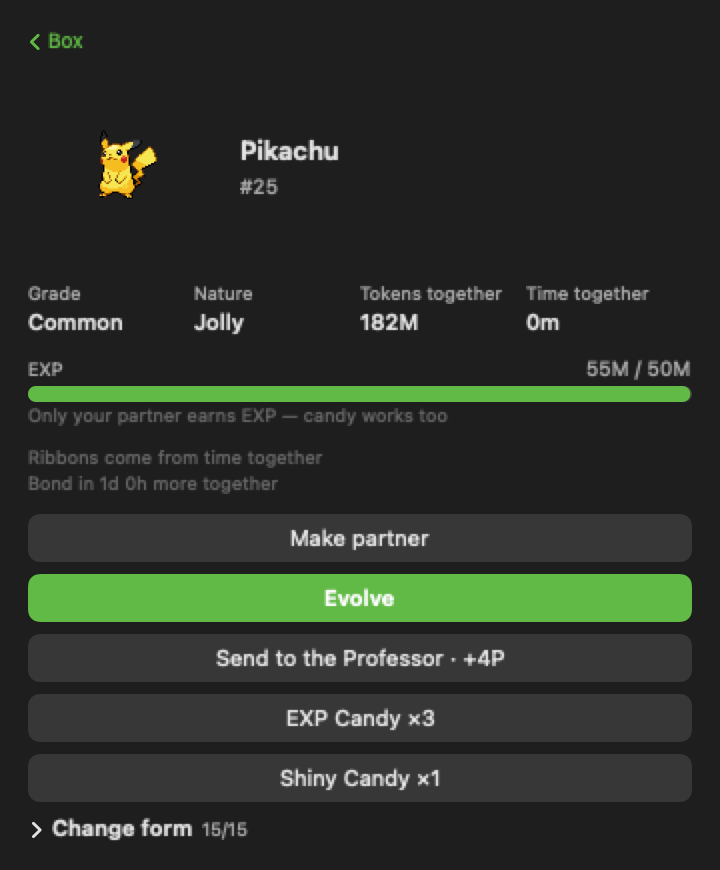
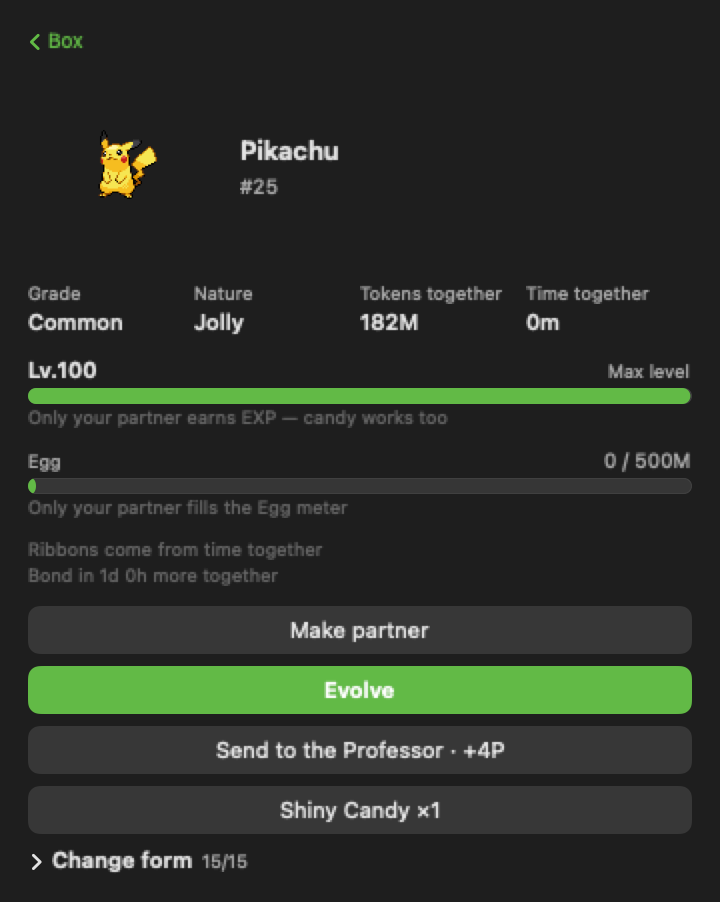
landing: level Pokemon the way the games do

diff --git a/index.html b/index.html
@@ -267,7 +267,7 @@
       <div class="step">
         <span class="n">05</span>
         <h3 data-i18n="s5.t">Evolve by hand</h3>
-        <p data-i18n="s5.d">Feed a hatchling experience by coding, or with EXP Candy, then tap it to evolve once it's ready. Branching lines let you pick the path. Experience alone isn't always enough: 56 branches want a stone, 25 want the item a trade would have held — and none of it is for sale. A partner wearing a Ribbon brings back the item it needs.</p>
+        <p data-i18n="s5.d">Pokémon level from 1 to 100 on the games' own six growth curves, and evolve at the games' own levels — a Charmander becomes a Charmeleon at 16. Code, or feed EXP Candy, then tap to evolve once it's ready. Branching lines let you pick the path. A level alone isn't always enough: 56 branches want a stone, 25 want the item a trade would have held — and none of it is for sale. A partner wearing a Ribbon brings back the item it needs.</p>
       </div>
       <div class="step">
         <span class="n">06</span>
@@ -311,7 +311,11 @@
       </figure>
       <figure>
         <div class="shot"><img src="assets/found-egg.png" alt="A green button reading 'Your partner brought a Charmander Egg!' directly above the hatching row it drops into"></div>
-        <figcaption data-i18n="cap.foundegg">A fully evolved Pokémon has nowhere left to put its experience, so it gathers into an Egg of that Pokémon's own line — a Charizard brings a Charmander Egg, filling in the stages you skipped. Press the announcement and it drops straight into a hatching slot; experience stops there and resets when you take it, so only one ever waits.</figcaption>
+        <figcaption data-i18n="cap.foundegg">Whoever is at your side fills an Egg of its own line — a Charizard brings a Charmander Egg, filling in the stages you skipped. It runs on its own meter, beside experience and untouched by it, so evolving costs the Egg nothing. Watch it fill on the home screen; when it is full it rocks, and pressing it drops the Egg into a hatching slot. It stops there until you take it, so only one ever waits.</figcaption>
+      </figure>
+      <figure>
+        <div class="shot"><img src="assets/levels.png" alt="A Charmander's detail screen: Lv.15 with the experience bar nearly full, a separate Egg meter below it, and one evolution locked until Lv.16"></div>
+        <figcaption data-i18n="cap.levels">Experience is no longer a raw count of tokens. Every Pokémon has one of the games' six growth curves and levels from 1 to 100 along it, so a Slow-growing legendary really does take longer than a Caterpie. Where an evolution needs a specific move, an item held at a certain hour, or a companion in your party, it is translated into something this app can actually offer.</figcaption>
       </figure>
       <figure>
         <div class="shot"><img src="assets/professor-banner.png" alt="The Professor's offer — three cards with sprites, names, grades and prices, the shiny one ringed in gold, above a Send to the Professor button"></div>
@@ -461,7 +465,7 @@
       "s4.t": "Hatch on real time",
       "s4.d": "30 minutes for a Common up to 24 hours for a Legendary — wall-clock time, counting down even while the app is closed, with a notification once it's ready. A ripe egg waits in its slot, cracked, until you tap Open — then it rocks, bursts, and the Pokémon springs out of it. Species with a regional look have a 20% chance to hatch Alolan, Galarian, Hisuian or Paldean.",
       "s5.t": "Evolve by hand",
-      "s5.d": "Feed a hatchling experience by coding, or with EXP Candy, then tap it to evolve once it's ready. Branching lines let you pick the path — and a Galarian Meowth becomes Perrserker where a Kantonian one becomes Persian. Experience alone isn't always enough: 56 branches want a stone, 25 want the item a trade would have held. None of it is for sale — a partner wearing a Ribbon brings back the item it needs, and items are never spent, so the first Fire Stone serves every Vulpix after it.",
+      "s5.d": "Pokémon level from 1 to 100 on the games' own six growth curves, and evolve at the games' own levels — a Charmander becomes a Charmeleon at 16. Code, or feed EXP Candy, then tap to evolve once it's ready. Branching lines let you pick the path. A level alone isn't always enough: 56 branches want a stone, 25 want the item a trade would have held — and none of it is for sale. A partner wearing a Ribbon brings back the item it needs.",
       "s6.t": "Fill a Dex and a Box",
       "s6.d": "The National Dex tracks every species you've hatched, #1 to #1025, silhouettes for the rest. Your Box is a fixed 6×5 case you page through, sorted oldest-first, with partner, shiny, Ribbon, and evolve-ready status carried by the sprite, its border, and its corner markers instead of a label — tap a cell for a detail screen where you set your partner, feed candy, evolve, or reshape it with a Mega Stone or Max Mushroom.",
       "shiny.t": "✨ Once in a rare while — Shiny",
@@ -475,7 +479,8 @@
       "cap.birthform": "Some species arrive already different — an Unown is one of 26 letters, a Flabébé one of five flower colours. Decided at hatch and kept for life. Vivillon follows the region rule from the games: your Mac's country decides which of the 18 wing patterns it can be born with.",
       "cap.partnerform": "A few change by who you keep close. Palafin turns Hero when it steps back, not when it comes out — swap it away and it returns changed. Terapagos wears its Terastal Form for as long as it is with you.",
       "cap.warmed": "Flame Body, Magma Armor and Steam Engine halve egg hatching in the games, and the 23 species carrying one do it here. Owning any of them is enough — anything already incubating loses half its remaining time, and every egg after starts at half.",
-      "cap.foundegg": "A fully evolved Pokémon has nowhere left to put its experience, so it gathers into an Egg of that Pokémon's own line — a Charizard brings a Charmander Egg, filling in the stages you skipped. Press the announcement and it drops straight into a hatching slot; experience stops there and resets when you take it, so only one ever waits.",
+      "cap.levels": "Experience is no longer a raw count of tokens. Every Pokémon has one of the games' six growth curves and levels from 1 to 100 along it, so a Slow-growing legendary really does take longer than a Caterpie. Where an evolution needs a specific move, an item held at a certain hour, or a companion in your party, it is translated into something this app can actually offer.",
+      "cap.foundegg": "Whoever is at your side fills an Egg of its own line — a Charizard brings a Charmander Egg, filling in the stages you skipped. It runs on its own meter, beside experience and untouched by it, so evolving costs the Egg nothing. Watch it fill on the home screen; when it is full it rocks, and pressing it drops the Egg into a hatching slot. It stops there until you take it, so only one ever waits.",
       "cap.professor": "Pokémon you were never going to raise can go to the Professor, who pays in research points — more for the ones you did raise, so what you clear out is naturally the duplicates you left alone. Points are their own currency: they can't buy Eggs, and tokens can't buy from him. Every day he offers three in exchange, leaning toward species missing from your Dex. Pick several at once in the Box; anything shiny or Legendary in the batch is named out loud and asked about twice.",
       "cap.blindoffers": "The three arrive face down, and you turn them over one at a time — each card opens where it sits, with rings that widen and colour by grade the way a hatching Egg does. Nothing leaks before you open a card, not even the gold ring a shiny wears. And the three are yours alone: each save rolls its own.",
 
@@ -528,7 +533,7 @@
       "s4.t": "실시간으로 부화",
       "s4.d": "커먼 30분부터 레전더리 24시간까지, 앱을 꺼 둬도 흘러가는 실제 시계 기준이고 준비되면 알림이 한 번 옵니다. 익은 알은 슬롯에 금이 간 채로 기다리고, 확인을 누르면 알이 흔들리다 터지고 그 자리에서 포켓몬이 나옵니다. 리전 폼이 있는 종은 20% 확률로 알로라·가라르·히스이·팔데아 모습으로 부화해요.",
       "s5.t": "직접 진화시키기",
-      "s5.d": "코딩으로, 또는 경험치 사탕으로 경험치를 먹인 뒤 준비가 되면 탭해서 진화시키세요. 분기 진화는 경로를 직접 고를 수 있고, 가라르 나옹은 나이킹으로 — 관동 나옹은 페르시온으로 갑니다. 경험치만으로는 안 되는 경우도 있어요: 56개 갈래는 돌을, 25종은 통신교환에 지녀야 할 물건을 요구합니다. 어느 것도 팔지 않아요 — 리본을 단 파트너가 필요한 것을 물어 오고, 도구는 없어지지 않아 처음 얻은 불꽃의돌이 이후 모든 식스테일에게 쓰입니다.",
+      "s5.d": "포켓몬은 본가의 6가지 성장 곡선을 따라 1~100레벨로 자라고, 본가와 같은 레벨에 진화합니다 — 파이리는 16레벨에 리자드가 돼요. 코딩하거나 경험치 사탕을 먹여 레벨을 올리고, 준비되면 눌러 진화시키세요. 분기가 있는 라인은 직접 길을 고릅니다. 레벨만으로 안 되는 경우도 있어요: 56개 갈래는 돌을, 25종은 교환에 지녀야 할 물건을 요구하는데 어느 것도 팔지 않습니다. 리본을 단 파트너가 자기에게 필요한 것을 물어 옵니다.",
       "s6.t": "도감과 박스 채우기",
       "s6.d": "전국도감은 부화시킨 모든 종을 #1부터 #1025까지 기록하고, 나머지는 실루엣으로 남습니다. 박스는 고정 6×5칸 상자를 페이지로 넘겨 보는 방식이에요 — 얻은 순서(오래된 것부터)로 자리가 고정되고, 파트너·이로치·리본·진화 가능 여부는 이름표 대신 스프라이트와 테두리, 모서리 표시가 말해줍니다. 칸을 누르면 상세 화면이 열려 파트너 지정, 사탕 먹이기, 진화, 메가스톤·다이버섯으로 폼 변경까지 여기서 합니다.",
       "shiny.t": "✨ 아주 가끔 — 이로치",
@@ -542,7 +547,8 @@
       "cap.birthform": "어떤 종은 처음부터 다르게 나옵니다 — 안농은 26글자 중 하나, 플라베베는 다섯 꽃 색 중 하나. 부화하는 순간 정해져 평생 갑니다. 비비용은 원작의 지역 규칙을 따라, 맥의 국가 설정이 18가지 무늬 중 어떤 것으로 태어날 수 있는지를 정합니다.",
       "cap.partnerform": "곁에 두는 것으로 바뀌는 아이들도 있습니다. 돌핀맨은 나올 때가 아니라 물러날 때 마이티폼이 되고, 다른 아이로 바꾸면 그때 달라져 있습니다. 테라파고스는 곁에 있는 동안 계속 테라스탈 폼입니다.",
       "cap.warmed": "불꽃몸·마그마의무장·증기기관은 원작에서 부화를 절반으로 줄여 주고, 그 특성을 가진 23종이 여기서도 같은 일을 합니다. 박스에 있기만 하면 되고, 이미 부화 중이던 알은 남은 시간이 절반이 됩니다.",
-      "cap.foundegg": "다 진화한 포켓몬은 경험치가 갈 곳이 없어, 그 경험치가 자기 라인의 알로 모입니다 — 리자몽은 파이리 알을 가져와 건너뛴 앞 단계를 도감에 메우게 해줘요. 알림을 누르면 바로 아래 부화 칸에 들어가고, 경험치는 알 하나에서 멈춰 받으면 0으로 돌아갑니다.",
+      "cap.levels": "경험치가 더 이상 쓴 토큰 수가 아닙니다. 포켓몬마다 본가의 6가지 성장 곡선 중 하나를 갖고 1레벨부터 100레벨까지 그 곡선을 따라 자라요 — slow 곡선인 전설은 캐터피보다 실제로 오래 걸립니다. 특정 기술이나 밤에 드는 도구, 파티 동행이 필요한 진화는 이 앱이 실제로 내줄 수 있는 조건으로 옮겨 놨어요.",
+      "cap.foundegg": "곁에 둔 아이가 자기 라인의 알을 채웁니다 — 리자몽은 파이리 알을 가져와 건너뛴 앞 단계를 메워 줍니다. 경험치와 별개의 계량기라 진화해도 알 진행분이 깎이지 않아요. 홈 화면에서 차오르는 걸 보다가 꽉 차면 알이 흔들리고, 누르면 부화 칸에 들어갑니다. 받기 전까지 거기서 멈춰 있어 알이 두 개씩 밀리지 않아요.",
       "cap.professor": "끝내 안 키울 포켓몬은 박사에게 보내고 연구 포인트를 받습니다 — 키운 아이일수록 값이 나가서, 정리 대상이 자연히 손 안 댄 중복이 돼요. 포인트는 별개 재화라 알을 못 사고, 토큰으로는 박사와 거래할 수 없어요. 박사는 매일 세 마리를 내밀며 도감에 없는 종을 좀 더 자주 골라 옵니다. 박스에서 여러 마리를 한 번에 고를 수도 있어요 — 이로치나 전설이 섞이면 이름으로 불러 주고 한 번 더 물어봅니다.",
       "cap.blindoffers": "셋은 가려진 채로 도착하고 한 칸씩 뒤집어 봅니다 — 카드는 그 자리에서 열리고, 등급에 따라 고리가 넓어지고 색이 짙어져요(알이 깨질 때와 같은 색 사다리). 열기 전에는 아무것도 안 새요, 이로치가 두르는 금테마저도요. 그리고 이 셋은 당신 것이에요 — 세이브마다 따로 굴립니다.",
 
@@ -595,7 +601,7 @@
       "s4.t": "実時間で孵化",
       "s4.d": "コモンは30分、レジェンダリーは24時間。アプリを閉じていても進む実時間のカウントダウンで、準備ができると通知が一度届きます。熟したタマゴはヒビが入ったままスロットで待っていて、かくにんをタップするとゆれて割れ、その場からポケモンが飛び出します。リージョンフォルムを持つ種は20%の確率でアローラ・ガラル・ヒスイ・パルデアの姿で孵ります。",
       "s5.t": "自分の手で進化させる",
-      "s5.d": "コーディングで、あるいはけいけんちアメで経験値を与え、準備ができたらタップして進化。分岐進化はルートを選べます — ガラルのニャースはニャイキングに、カントーのニャースはペルシアンに。経験値だけでは足りないこともあります: 56の分岐は石を、25種は通信交換で持たせる道具を要求します。どれも売っていません — リボンをつけたパートナーが必要なものをもってきて、道具はなくならないので、最初のほのおのいしがその後すべてのロコンに使えます。",
+      "s5.d": "ポケモンは原作の6つのせいちょうカーブにそってLv.1から100までそだち、原作と同じレベルで進化します — ヒトカゲは16でリザードになります。コーディングか経験値アメでレベルを上げ、準備ができたらタップして進化させましょう。分岐するラインは自分で道をえらべます。レベルだけでは足りないこともあります: 56の分岐は石を、25種は交換で持たせる道具を要求し、どれも売っていません。リボンをつけたパートナーが必要なものをもってきます。",
       "s6.t": "図鑑とボックスを埋める",
       "s6.d": "全国図鑑は孵したすべての種を #1 から #1025 まで記録し、残りはシルエットのまま。ボックスは固定 6×5 マスの箱をページ送りで見る仕組みで、手に入れた順（古い順）で場所が固定され、パートナー・色違い・リボン・進化可能かはラベルの代わりにスプライトと枠、隅のマークが伝えます。セルをタップすると詳細画面が開き、パートナー設定・アメ・進化・メガストーンやダイマックスのキノコによるフォルムチェンジまでそこで行えます。",
       "shiny.t": "✨ ごくまれに — 色違い",
@@ -609,7 +615,8 @@
       "cap.birthform": "最初から違う姿で生まれてくる種がいます — アンノーンは26文字のひとつ、フラベベは5色の花のひとつ。孵化した瞬間に決まり一生変わりません。ビビヨンは原作の地域ルールに従い、Mac の国設定が18種類のもようのうちどれで生まれうるかを決めます。",
       "cap.partnerform": "そばに置くことで変わる子もいます。イルカマンは出てくるときではなく引っ込むときにマイティフォルムになり、別の子に替えると変わっています。テラパゴスはそばにいるあいだずっとテラスタルフォルムです。",
       "cap.warmed": "ほのおのからだ・マグマのよろい・じょうききかんは原作でふ化を半分にします。その特性を持つ23種がここでも同じ働きをし、ボックスにいるだけでふ化中のタマゴの残り時間が半分になります。",
-      "cap.foundegg": "しんかしきったポケモンのけいけんちは行き場がなく、じぶんのラインのタマゴになります — リザードンはヒトカゲのタマゴをもってきて、とばした前のすがたを図鑑にうめられます。おしらせをおすとすぐ下のふ化スロットに入り、けいけんちはタマゴひとつでとまって、うけとると0にもどります。",
+      "cap.levels": "経験値はもう「使ったトークンの数」ではありません。ポケモンごとに原作の6つのせいちょうカーブのひとつをもち、Lv.1から100までそのカーブにそってそだちます — slowの伝説はキャタピーより本当に時間がかかります。とくべつなわざ、夜にもつ道具、パーティの仲間といった条件は、このアプリが実際にさしだせるものに置きかえてあります。",
+      "cap.foundegg": "そばにいる子がじぶんのラインのタマゴをためます — リザードンはヒトカゲのタマゴをもってきて、とばした前のすがたをうめてくれます。けいけんちとはべつのメーターなので、しんかしてもタマゴのすすみはへりません。ホーム画面でたまるのを見て、いっぱいになるとゆれ、おすとふ化スロットに入ります。うけとるまで止まるので、たまるのはひとつだけです。",
       "cap.professor": "けっきょく育てないポケモンははかせにおくって、けんきゅうポイントをもらえます — 育てた子ほど高くつくので、整理するのは自然と手をつけなかった重複になります。ポイントは別のつうかで、タマゴは買えず、トークンでははかせと取引できません。はかせは毎日3ひきをていあんし、図鑑にいない種をすこし多めにえらんできます。ボックスでまとめてえらぶこともでき、色違いや伝説がまざると名前でよびかけ、もういちど確認します。",
       "cap.blindoffers": "3ひきはふせられてとどき、1まいずつめくっていきます — カードはその場でひらき、ランクにおうじて輪がひろがり色がこくなります（タマゴがかえるときと同じ色のはしご）。ひらくまではなにももれません。色違いがまとう金枠さえもです。そしてこの3ひきはあなたのもの — セーブごとにべつべつにふります。",
 
